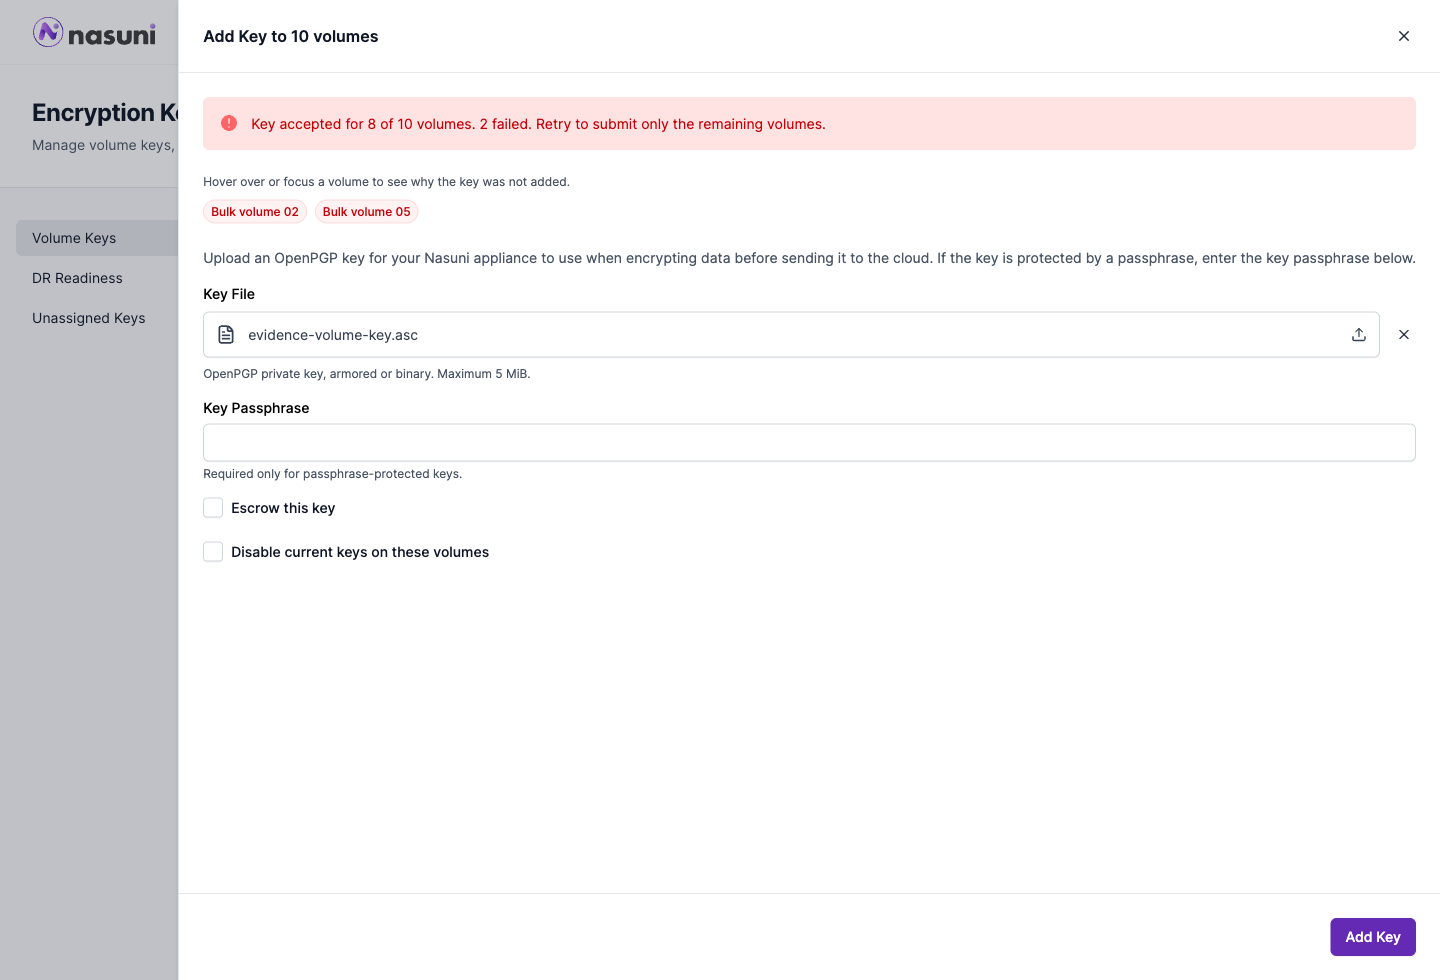
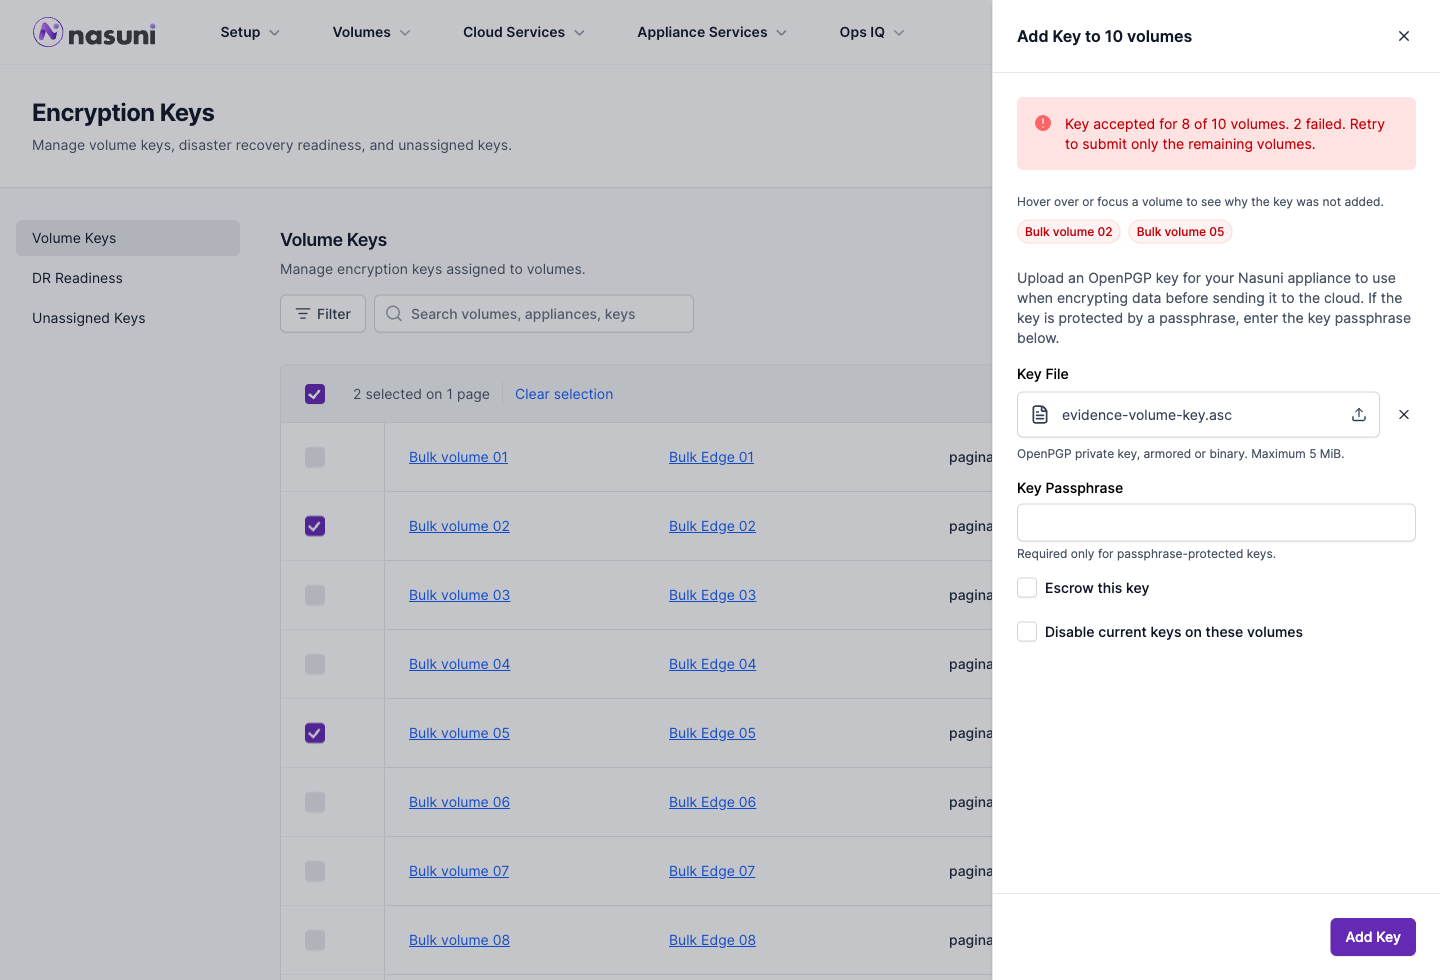
[PORTAL-3546] Recapture drawers with production styles

diff --git a/PORTAL-3546/README.md b/PORTAL-3546/README.md
@@ -4,6 +4,10 @@ Pull request: [nasuni/portal#3099](https://github.com/nasuni/portal/pull/3099).
 Portal source: [`2f2971ddab91703c29d307c31fef2e32e00e7fe7`](https://github.com/nasuni/portal/commit/2f2971ddab91703c29d307c31fef2e32e00e7fe7).
 Captured on 2026-11-06 using Chromium at a 1440 × 980 CSS-pixel viewport.
 
+## Capture correction
+
+The six drawer images were recaptured with both production stylesheets (`@portal/ui/styles.css` and `@/main.css`). The original browser harness omitted the shared UI stylesheet, causing incorrect widths. Each corrected capture verifies the production drawer width is 28rem (448px). The recapture uses Portal commit `1e8ebf812f9a69960fad153b0d3b6d9927dcd343`; its only difference from the source commit above is the select-all test selector fix, so product code is unchanged.
+
 ## Scope
 
 These are unedited screenshots of the actual Portal route components exercised through the browser integration runner, using the existing MSW scenarios and synthetic data. They are UI evidence, not evidence of live appliance or backend success. No customer data or key contents are included. The screenshot harness was temporary and is not part of the Portal change.
@@ -154,6 +158,10 @@ The global handler shows the download-started notification on Cloud Credentials 
 The download action sends the initiation request and displays the collecting notification.
 
 ![Generated keys: collection started](2026-11-06-2f2971ddab/20-generated-keys-collecting.png)
+
+## Enable/Disable verification
+
+Five existing real-page checks in `VolumeKeysPage.test.tsx` passed on 2026-11-06: pending Enable and Disable are scoped to the affected volume/key association, progress persists through collapse/re-expand and the accepted-response refresh, merged rows preserve Add Key availability, a keyring SSE update renders the final Disabled state, and synchronous request rejection remains visible even after the initiating row collapses. These use MSW and do not verify execution on a live appliance. No timeout increases or new permanent tests were added.
 
 ## Limits and follow-ups
 
